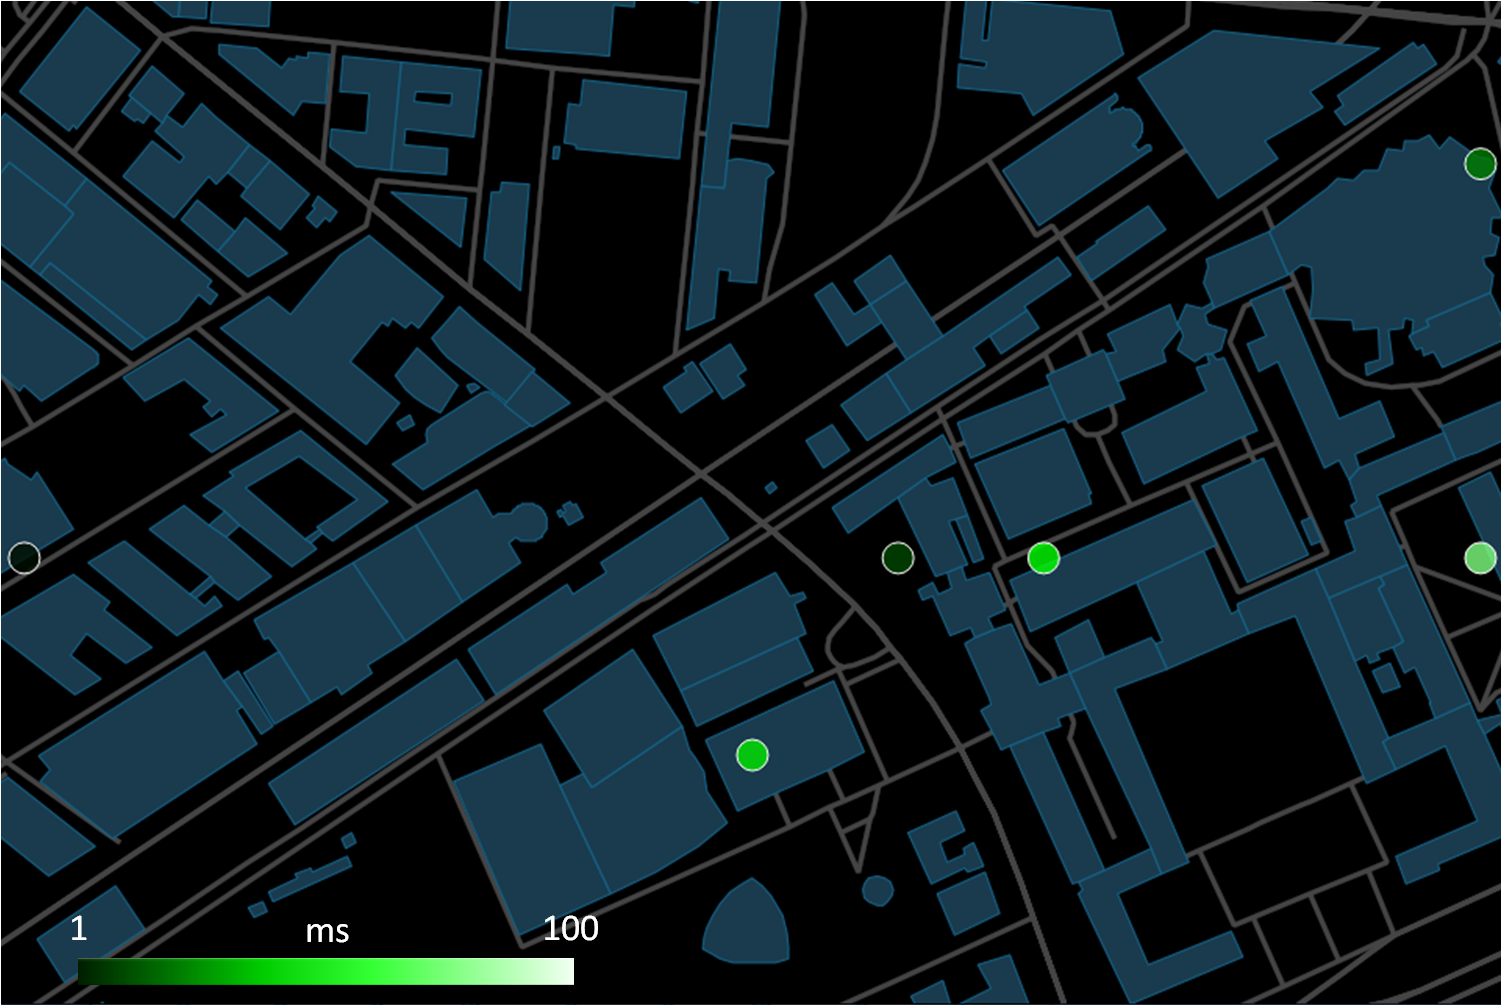
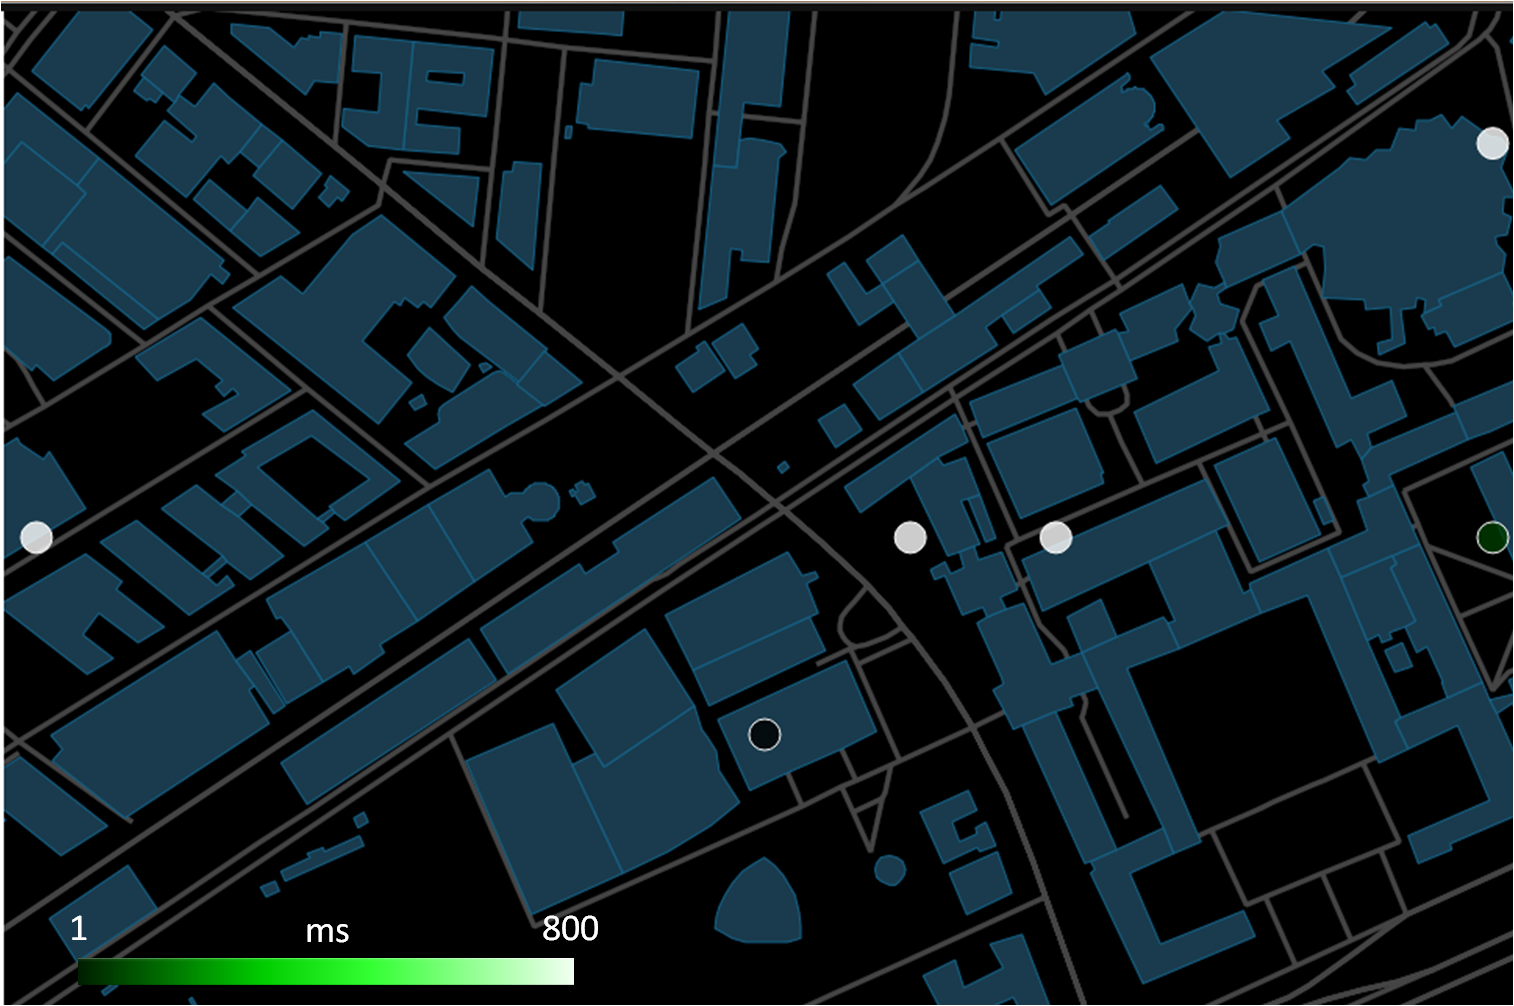
Results updated

diff --git a/src/results.tex b/src/results.tex
@@ -38,8 +38,7 @@ be able to handle hi-resolution data to produce an accurate map.
 
 {\bfseries Average Round-Trip-Time.}
 Figure~\ref{fig:rtt} presents the map of the WiFi/cellular network average
-round-trip-time. We make several observations. First, the average RTT also 
-varies with location. Second, the bandwidth and the average RTT is not highly 
-correlated. Places with a higher bandwidth does imply a shorter RTT.
-
-
+round-trip-time. We make two observations. First, the average RTT also 
+varies with location (between 20 to 800 ms). Second, there is no clear 
+correlation between the network bandwidth and average RTT. Places with a
+higher bandwidth does imply a shorter RTT. 
